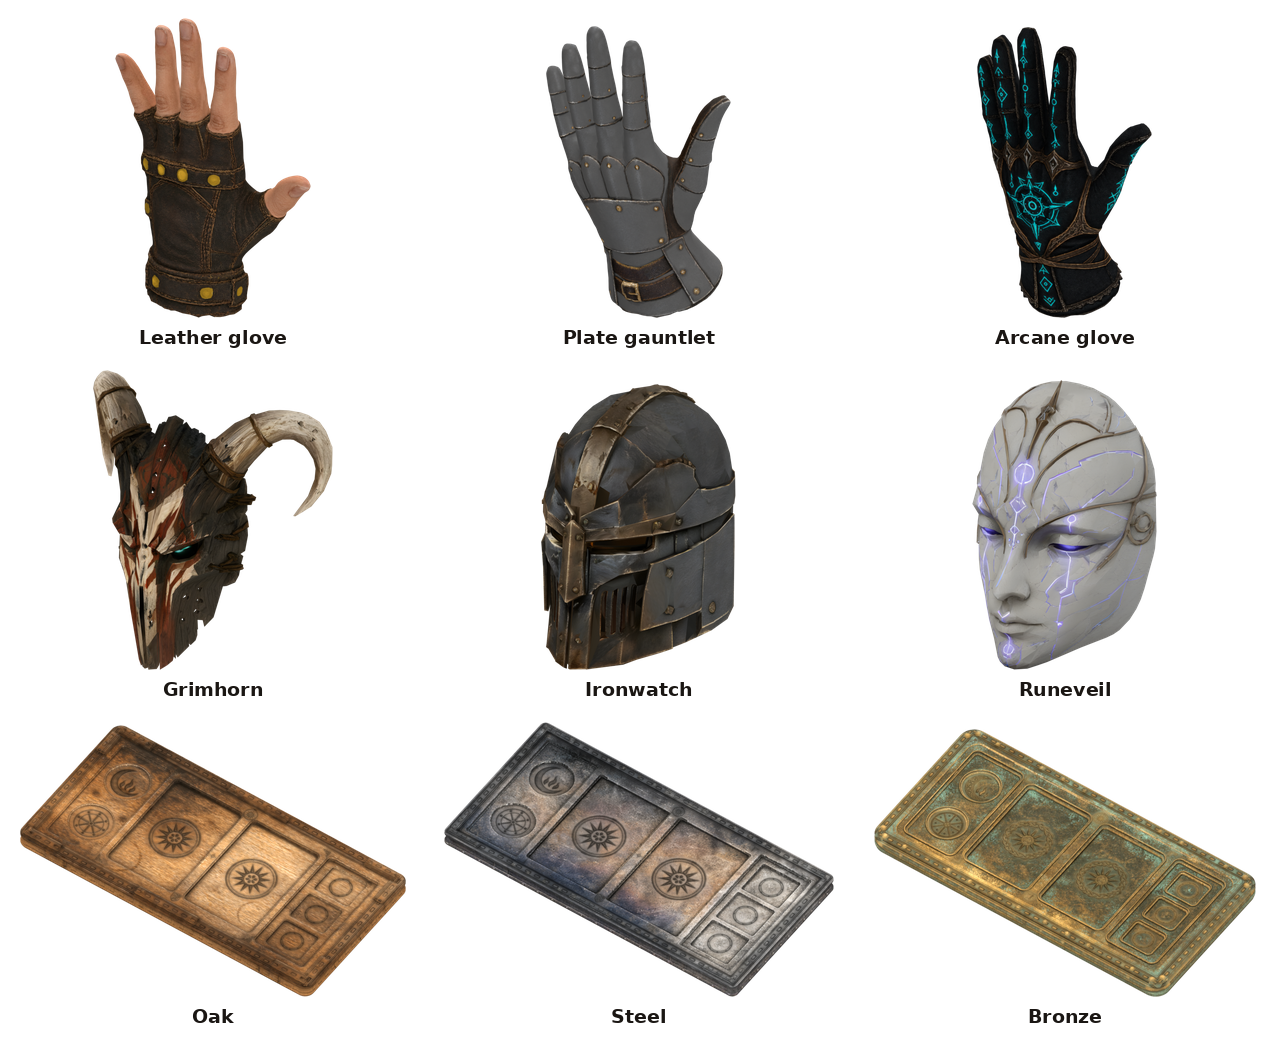
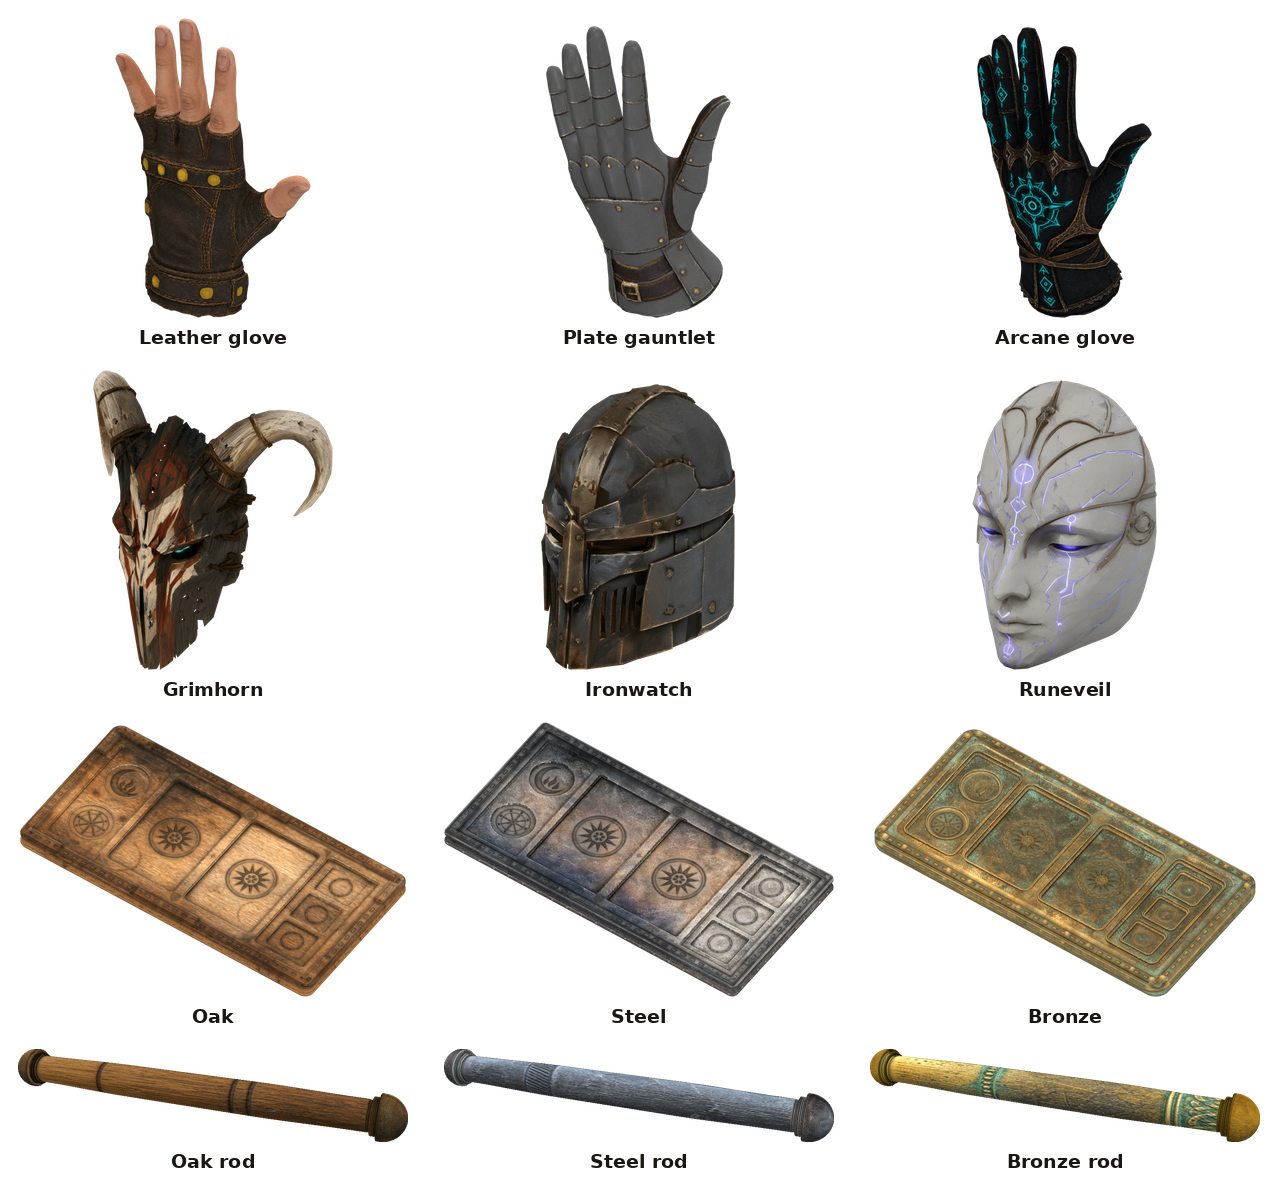
docs(readme): the rods join the styles matrix, under their boards
The standalone sheet went in the wrong place. The rods belong in the matrix that
already renders the selectable assets, in the column under the board each one
comes with — so the picture says which rod belongs to which board instead of
leaving the reader to pair them.

THREE, not four. The fourth rod is the windows' and is not a selectable board
style, so it gets no column: a chooser matrix should only show things that can be
chosen. It is named in the prose instead.

The row is added to unity/asset-preview/build_readme_images.py so it is
reproducible, and PreviewGrabBar grew an 'asset' shot that clears to alpha 0 for
exactly this — the matrix composites TRANSPARENT renders onto white, and the
station's usual dark ground would have arrived as a dark rectangle. Same mesh,
same material, same code; only the clear colour differs. The three renders are
committed to unity/asset-preview/render/ beside where the others belong.

THE SHIPPED PNG WAS APPENDED TO, NOT REBUILT, and that is worth stating plainly:
the nine source renders for the hands, masks and boards are not in the tree, so
the generator cannot currently run. The row was therefore composited onto the
existing image using the generator's OWN arithmetic — width 1280, cw = width // 3,
pad 18, label_h 34, cell_h 300, common baseline, DejaVu Bold 19, ink (26,22,19) —
and the script asserts the matrix is still 1280 wide before touching it. Re-running
[…]

diff --git a/unity/GloomhavenVR.Assets/Assets/Editor/PreviewGrabBar.cs b/unity/GloomhavenVR.Assets/Assets/Editor/PreviewGrabBar.cs
@@ -84,6 +84,12 @@ namespace GloomhavenVR
                 // band repeating rather than stretching is that the DETAIL DENSITY stays put while
                 // the bar does not. That is a claim about three pictures, not one: rendered side by
                 // side, the scratches and the ornament must come out the same SIZE in all of them.
+                // THE README ASSET SHOT: transparent ground, square-ish framing, so the rod can be
+                // dropped into unity/asset-preview/build_readme_images.py's styles matrix beside
+                // the hands, masks and boards. That matrix composites TRANSPARENT renders onto
+                // white, so a rod shot on this station's usual dark ground would arrive as a dark
+                // rectangle. Same mesh, same material, same code — only the clear colour differs.
+                Shoot(style, overlay, BoardBarLength, "asset", outDir, asset: true);
                 Shoot(style, overlay, 0.16f, "len016", outDir);
                 Shoot(style, overlay, 0.34f, "len034", outDir);
                 Shoot(style, overlay, 0.70f, "len070", outDir);
@@ -97,7 +103,7 @@ namespace GloomhavenVR
         }
 
         private static void Shoot(string style, bool overlay, float length, string tag,
-                                  string outDir, bool axial = false)
+                                  string outDir, bool axial = false, bool asset = false)
         {
             var root = new GameObject("GrabBarPreviewRoot");
             try
@@ -154,7 +160,10 @@ namespace GloomhavenVR
                 var camGo = new GameObject("Cam");
                 Camera cam = camGo.AddComponent<Camera>();
                 cam.clearFlags = CameraClearFlags.SolidColor;
-                cam.backgroundColor = new Color(0.18f, 0.18f, 0.19f);
+                // Alpha 0 for the asset shot so the README matrix can composite it onto white.
+                cam.backgroundColor = asset
+                    ? new Color(0f, 0f, 0f, 0f)
+                    : new Color(0.18f, 0.18f, 0.19f, 1f);
                 cam.orthographic = false;
                 cam.fieldOfView = 24f;
                 // NEAR CLIP, and it is not housekeeping. Framing on a 0.35 m rod puts the camera
@@ -169,12 +178,14 @@ namespace GloomhavenVR
                 // which is the only thing this station exists to judge. Solve the distance from the
                 // horizontal half-angle instead, and leave 12 % margin.
                 float hFov = 2f * Mathf.Atan(Mathf.Tan(cam.fieldOfView * 0.5f * Mathf.Deg2Rad)
-                                             * ((float)rtW / rtH));
+                                             * (asset ? 1200f / 640f : (float)rtW / rtH));
                 // The sweep shots are framed on a FIXED width rather than on the rod, so a
                 // scratch that is the same size in metres comes out the same size in pixels in all
                 // three. Framing each on its own length would rescale every picture and hide
                 // exactly the thing the sweep exists to show.
-                float frame = tag.StartsWith("len") ? 0.72f : length * 1.34f;
+                float frame = tag.StartsWith("len") ? 0.72f
+                            : asset ? length * 1.12f
+                            : length * 1.34f;
                 float dist = (frame * 0.5f) / Mathf.Tan(hFov * 0.5f);
                 // A THREE-QUARTER HERO ANGLE, not a side elevation — the same view the design
                 // sheets were drawn at. Judging a flat side-on render against a three-quarter
@@ -186,11 +197,15 @@ namespace GloomhavenVR
                     : new Vector3(dist * 0.42f, dist * 0.30f, -dist * 0.86f);
                 camGo.transform.LookAt(Vector3.zero);
 
-                var rt = new RenderTexture(rtW, rtH, 24);
+                var rt = asset
+                    ? new RenderTexture(1200, 640, 24, RenderTextureFormat.ARGB32)
+                    : new RenderTexture(rtW, rtH, 24);
                 cam.targetTexture = rt;
                 cam.Render();
                 RenderTexture.active = rt;
-                var shot = new Texture2D(rt.width, rt.height, TextureFormat.RGB24, false);
+                var shot = new Texture2D(rt.width, rt.height,
+                                         asset ? TextureFormat.RGBA32 : TextureFormat.RGB24,
+                                         false);
                 shot.ReadPixels(new Rect(0, 0, rt.width, rt.height), 0, 0);
                 shot.Apply();
                 RenderTexture.active = null;

diff --git a/unity/asset-preview/build_readme_images.py b/unity/asset-preview/build_readme_images.py
@@ -179,7 +179,19 @@ styles_matrix([[('hand_glove.png', 'Leather glove'), ('hand_plate.png', 'Plate g
                [('mask_2.png', 'Grimhorn'), ('mask_0.png', 'Ironwatch'),
                 ('mask_1.png', 'Runeveil')],
                [('board_oak.png', 'Oak'), ('board_steel.png', 'Steel'),
-                ('board_bronze.png', 'Bronze')]], 'styles.png')
+                ('board_bronze.png', 'Bronze')],
+               # THE GRAB ROD EACH BOARD COMES WITH, directly under its board so the column says
+               # which belongs to which. THREE, not four: the fourth rod is the windows' and is not
+               # a selectable board style, so it has no column here — a chooser matrix should only
+               # show things that can be chosen. (User, 2026-08-28: "Mach sie unter den Boards in
+               # der Matrix die du eh schon renderst.")
+               #
+               # These come from unity/GloomhavenVR.Assets/Assets/Editor/PreviewGrabBar.cs's
+               # "asset" shot, which clears to alpha 0 for exactly this: the matrix composites
+               # TRANSPARENT renders onto white, and the station's usual dark ground would arrive
+               # here as a dark rectangle.
+               [('rod_oak.png', 'Oak rod'), ('rod_steel.png', 'Steel rod'),
+                ('rod_bronze.png', 'Bronze rod')]], 'styles.png')
 logo()
 poster('card-fan.mp4', 'card-fan-poster.jpg', '0:05')
 poster('figure-grab.mp4', 'figure-grab-poster.jpg', '0:06')

diff --git a/README.md b/README.md
@@ -76,16 +76,13 @@ Three pairs of hands, three masks, three control boards. One dropdown each, chan
 and the other players see the choice. All modelled for this project.
 
 <p align="center">
-  <img src="docs/img/styles.png" width="680" alt="Three hands, three masks, three control boards">
+  <img src="docs/img/styles.png" width="680" alt="Three hands, three masks, three control boards, and the grab rod each board comes with">
 </p>
 
-Four turned grab rods go with them — one in each board's own material, and a quieter walnut one for
-the windows. Modelled from a lathe profile and textured per rod, down to the incised fillets, the
-knurled collars and the worn band where a hand has held it.
-
-<p align="center">
-  <img src="docs/img/grabbars.png" width="680" alt="Four grab rods: oak, steel, bronze, and the walnut window rod">
-</p>
+Each board comes with its own turned grab rod, in the bottom row — modelled from a lathe profile and
+textured one by one, down to the incised fillets, the knurled collars and the worn band where a hand
+has held it. Windows get a fourth, quieter walnut rod; it is not shown here because it is not a
+board style you pick.
 
 ## Environments
 
